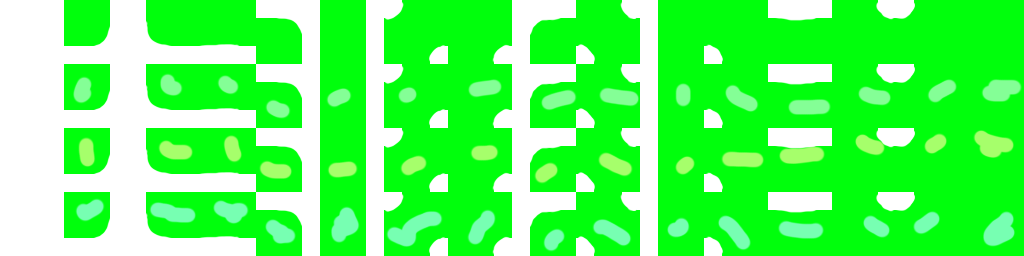
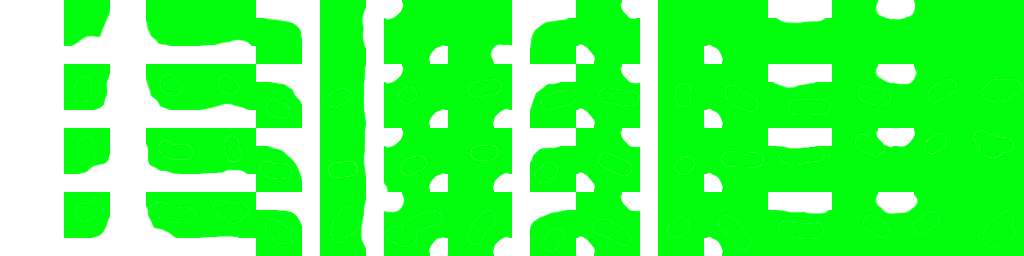
Add test tile entity

diff --git a/FactoryLand/Game1.cs b/FactoryLand/Game1.cs
@@ -16,6 +16,7 @@ namespace FactoryLand
         private BasicEffect effect; // Kind of a shader
         private InputManager inputManager = new InputManager();
         private FramerateCounter fpsCounter = new FramerateCounter();
+        private List<TileEntity> tileEntities = new List<TileEntity>();
 
         private Camera camera;
         private Terrain terrain;
@@ -42,15 +43,16 @@ namespace FactoryLand
             inputManager.AddInputReciever(this, InputType.CameraLeft, InputState.Down);
             inputManager.AddInputReciever(this, InputType.CameraRight, InputState.Down);
             inputManager.AddInputReciever(this, InputType.CameraZoom, InputState.Down);
-            inputManager.AddInputReciever(this, InputType.Click, InputState.Pressed);
+            inputManager.AddInputReciever(this, InputType.Select, InputState.Pressed);
+            inputManager.AddInputReciever(this, InputType.SecondarySelect, InputState.Pressed);
 
             inputManager.AddKeyBinding(Keys.W, InputType.CameraUp);
             inputManager.AddKeyBinding(Keys.S, InputType.CameraDown);
             inputManager.AddKeyBinding(Keys.A, InputType.CameraLeft);
             inputManager.AddKeyBinding(Keys.D, InputType.CameraRight);
             inputManager.AddMouseBinding(MouseAction.Scroll, InputType.CameraZoom);
-            inputManager.AddMouseBinding(MouseAction.LeftButton, InputType.Click);
-
+            inputManager.AddMouseBinding(MouseAction.LeftButton, InputType.Select);
+            inputManager.AddMouseBinding(MouseAction.RightButton, InputType.SecondarySelect);
 
             base.Initialize();
         }
@@ -146,7 +148,13 @@ namespace FactoryLand
             RasterizerState rasterizerState = new RasterizerState();
             rasterizerState.CullMode = CullMode.None;
             GraphicsDevice.RasterizerState = rasterizerState;
+
+            foreach (TileEntity tileEntity in tileEntities)
+            {
+                DrawEntity(tileEntity);
+            }
             DrawEntity(selector);
+
             rasterizerState.Dispose();
         }
 
@@ -190,10 +198,16 @@ namespace FactoryLand
 
         public void RecieveInput(InputType input, InputState state, Point mousePos, int scrollDelta)
         {
-            if (input == InputType.Click)
+            if (input == InputType.Select)
             {
                 Vector2 click = ScreenToWorld(mousePos.ToVector2());
                 DebugRenderer.AddText(String.Format("X:{0} Y:{1}", click.X, click.Y), "Last Click Location");
+                
+                tileEntities.Add(new TestTileEntity(selector.Tile));
+            }
+            if (input == InputType.SecondarySelect)
+            {
+                tileEntities.RemoveAll((TileEntity entity) => { return entity.Location == selector.Tile; });
             }
 
             int movementSpeed = 10;

diff --git a/FactoryLand/TileEntity.cs b/FactoryLand/TileEntity.cs
@@ -3,15 +3,43 @@ using System.Collections.Generic;
 using System.Linq;
 using System.Text;
 using System.Threading.Tasks;
+using Microsoft.Xna.Framework;
 using Microsoft.Xna.Framework.Graphics;
 
 namespace FactoryLand
 {
-    class TileEntity : IDrawableEntity
+    abstract class TileEntity : IDrawableEntity
     {
+        public Point Location { get; private set; }
+        protected Texture2D texture;
+        protected VertexPositionColorTexture[] verticies = new VertexPositionColorTexture[4];
+        protected short[] indicies = new short[6];
+
+        public TileEntity(Point location)
+        {
+            Location = location;
+        }
+
+        protected void UpdateGraphics()
+        {
+            verticies[0] = new VertexPositionColorTexture(new Vector3(Location.X, Location.Y, 0), Color.White, new Vector2(0, 0));
+            verticies[1] = new VertexPositionColorTexture(new Vector3(Location.X + 1, Location.Y, 0), Color.White, new Vector2(1, 0));
+            verticies[2] = new VertexPositionColorTexture(new Vector3(Location.X, Location.Y + 1, 0), Color.White, new Vector2(0, 1));
+            verticies[3] = new VertexPositionColorTexture(new Vector3(Location.X + 1, Location.Y + 1, 0), Color.White, new Vector2(1, 1));
+
+            indicies[0] = 0;
+            indicies[1] = 1;
+            indicies[2] = 2;
+            indicies[3] = 1;
+            indicies[4] = 3;
+            indicies[5] = 2;
+        }
+
         public void GetVertexData(out VertexPositionColorTexture[] verticies, out short[] indicies, out Texture2D texture)
         {
-            throw new NotImplementedException();
+            verticies = this.verticies;
+            indicies = this.indicies;
+            texture = this.texture;
         }
     }
 }

diff --git a/FactoryLand/TestTileEntity.cs b/FactoryLand/TestTileEntity.cs
@@ -1,0 +1,18 @@
+using Microsoft.Xna.Framework;
+using System;
+using System.Collections.Generic;
+using System.Linq;
+using System.Text;
+using System.Threading.Tasks;
+
+namespace FactoryLand
+{
+    class TestTileEntity : TileEntity
+    {
+        public TestTileEntity(Point location) : base(location)
+        {
+            texture = TextureManager.GetTexture(TextureId.Test);
+            UpdateGraphics();
+        }
+    }
+}

diff --git a/FactoryLand/Chunk.cs b/FactoryLand/Chunk.cs
@@ -238,7 +238,6 @@ namespace FactoryLand
 
         private Vector2 GetTextureMapCoord(int tile, int visualType, bool top, bool right)
         {
-            //return new Vector2(tile / 16f + (right ? 0.0625f : 0), (top ? 0.25f : 0f));
             return new Vector2(tile / 16f + (right ? 0.0625f : 0f), visualType / 4f + (top ? 0.25f : 0f));
         }
 

diff --git a/FactoryLand/Input/InputManager.cs b/FactoryLand/Input/InputManager.cs
@@ -25,7 +25,8 @@ namespace FactoryLand
         CameraRight = 7,
         CameraZoom = 8,
         
-        Click = 9
+        Select = 9,
+        SecondarySelect = 10
     }
 
     /// <summary>
